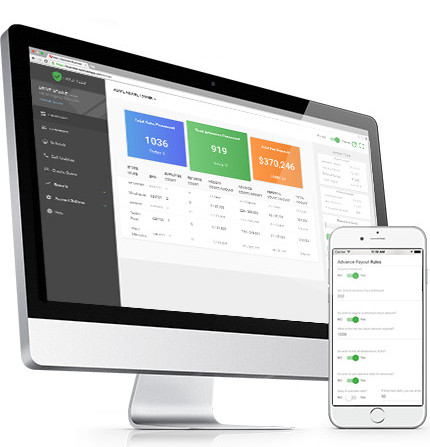
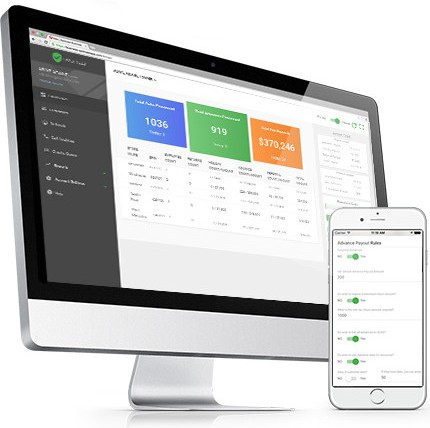
about image size, listing bullets, swoosh image, responsive fixes

Changed region(s): [[0.0, 0.0, 0.9977, 0.972], [0.3023, 0.9112, 0.6953, 0.972]]

diff --git a/index.html b/index.html
@@ -27,7 +27,7 @@
 </head> 
 <body id="home">
  
-   	<a href="https://app.gettaxshield.com/#/login" class="btn btn-outline-light badge-pill fixed_top_right login_button f_12_14 p_x_20 p_y_10">login</a>
+   	<a href="https://app.gettaxshield.com/#/login" class="btn btn-primary badge-pill fixed_top_right login_button f_12_14 p_x_20 p_y_10">login</a>
    	<!-- <a href="#" class="btn btn-outline-light badge-pill fixed_top_right login_button f_12_14 p_x_20 p_y_10">Logout</a> -->
 
   	<!-- Header Start -->
@@ -95,19 +95,26 @@
  		<div class="container">
  			<div class="row">
  				<div class="col-12 col-md-6">
- 					<img src="images/about_image.jpg" class="img-fluid position-absolute m_b_20">
+ 					<img src="images/about_image.png" class="img-fluid position-absolute m_b_20">
  				</div>
  				<div class="col-12 col-md-6">
  					<h2 class="main_heading heading_style type_2">Intuitive Tax Software &amp; Innovative CRM</h2>
- 					<h3 class="f_18_24 font-weight-normal">"Think outside the box, Innovate and execute!"</h3>
+ 					<h3 class="f_18_24 font-weight-normal">TaxShield is for the modern ERO.</h3>
  					<div class="description">
- 						<ul class="list-group list-group-flush list-unstyled m_b_20">
- 							<li class="list-group-item pl-0 border-0 pr-0"><i class="fas fa-check text-success m_r_10"></i>Compete 1040 &amp; Business Software</li>
- 							<li class="list-group-item pl-0 border-0 pr-0"><i class="fas fa-check text-success m_r_10"></i>Integrated Referral software</li>
- 							<li class="list-group-item pl-0 border-0 pr-0"><i class="fas fa-check text-success m_r_10"></i>Text Messaging &amp; Call Tracking</li>
- 							<li class="list-group-item pl-0 border-0 pr-0"><i class="fas fa-check text-success m_r_10"></i>Customer Lead management Portal</li>
- 							<li class="list-group-item pl-0 border-0 pr-0"><i class="fas fa-check text-success m_r_10"></i>Taxpayer remote signature</li>
+ 						<ul class="list-group list-group-flush list-unstyled m_b_20 f_30_34">
+ 						<!-- 	<li class="list-group-item pl-0 border-0 pr-0"><i class="fas fa-chevron-right text-success m_r_10"></i>Compete 1040 &amp; Business Software</li>
+ 							<li class="list-group-item pl-0 border-0 pr-0"><i class="fas fa-angle-right text-success m_r_10"></i>Integrated Referral software</li>
+ 							<li class="list-group-item pl-0 border-0 pr-0"><i class="fas fa-caret-right text-success m_r_10"></i>Text Messaging &amp; Call Tracking</li>
+ 							<li class="list-group-item pl-0 border-0 pr-0"><i class="fas fa-hand-point-right text-success m_r_10"></i>Customer Lead management Portal</li>
+ 							<li class="list-group-item pl-0 border-0 pr-0"><i class="fas fa-dot-circle text-success m_r_10"></i>Taxpayer remote signature</li>
  							<li class="list-group-item pl-0 border-0 pr-0"><i class="fas fa-check text-success m_r_10"></i>Self-funded advance Software</li>
+ -->
+ 							<li class="list-group-item pl-0 border-0 pr-0"><i class="fas fa-dot-circle text-primary m_r_10"></i>Compete 1040 &amp; Business Software</li>
+ 							<li class="list-group-item pl-0 border-0 pr-0"><i class="fas fa-dot-circle text-primary m_r_10"></i>Integrated Referral software</li>
+ 							<li class="list-group-item pl-0 border-0 pr-0"><i class="fas fa-dot-circle text-primary m_r_10"></i>Text Messaging &amp; Call Tracking</li>
+ 							<li class="list-group-item pl-0 border-0 pr-0"><i class="fas fa-dot-circle text-primary m_r_10"></i>Customer Lead management Portal</li>
+ 							<li class="list-group-item pl-0 border-0 pr-0"><i class="fas fa-dot-circle text-primary m_r_10"></i>Taxpayer remote signature</li>
+ 							<li class="list-group-item pl-0 border-0 pr-0"><i class="fas fa-dot-circle text-primary m_r_10"></i>Self-funded advance Software</li>
  						</ul>
 	 					<p><a href="#" class="link2 text-uppercase">Read More</a></p>
  					</div>

diff --git a/css/style.css b/css/style.css
@@ -333,12 +333,6 @@ img.blur {
     right: 44px;
 }
 
-.fixed_top_right.login_button:hover {
-    background-color: #6fbe4a !important;
-    color: #fff !important;
-    border-color: #6fbe4a !important;
-}
-
 
 /*Heading Style*/
 .heading_style {
@@ -379,9 +373,34 @@ img.blur {
 
 
 /*About Section*/
+
+.section-about {
+    background-image: url(../images/about_bg.png);
+    background-repeat: no-repeat;
+    background-position: -180px 0; 
+}
+
 .section-about img.position-absolute {
-    left: 0;
-    top: 0;
+    top: -60px;
+    left: -40px;
+    width: 100%;
+    max-width: 500px;
+}
+
+.section-about .list-group {
+    margin-left: 5px;
+}
+
+.section-about .list-group-item {
+    position: relative;
+    padding: 5px 0 5px 48px !important;
+}
+
+.section-about .list-group-item i {
+    position: absolute;
+    left: 10px;
+    top: 12px;
+    font-size: 24px;
 }
 
 /*Section Features*/
@@ -690,7 +709,7 @@ img.blur {
     }
 
     section.banner_section h1.main_heading {
-        font-size: 40px;
+        font-size: 34px;
         line-height: 40px;
     }
 
@@ -722,6 +741,8 @@ img.blur {
         width: 100%;
         position: static !important;
         max-width: 500px;
+        margin: 0 auto 30px auto !important;
+        display: block;
     }
 
     .section-about.ptb_140_130 {
